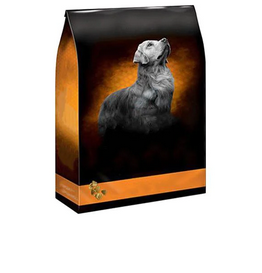
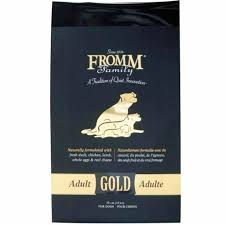
Store.js changed

diff --git a/frontend/src/components/Store.js b/frontend/src/components/Store.js
@@ -14,6 +14,9 @@ import FavoriteIcon from "@mui/icons-material/Favorite";
 import ShareIcon from "@mui/icons-material/Share";
 import MoreVertIcon from "@mui/icons-material/MoreVert";
 import dogfood from "@/images/dogfood.png";
+import dogfood1 from "@/images/dogfood1.jpg";
+import dogfood2 from "@/images/dogfood2.jpg";
+import dogfood3 from "@/images/dogfood3.jpg";
 import Image from "next/image";
 import { Box, Button } from "@mui/material";
 
@@ -23,10 +26,10 @@ export default function Store() {
   return (
     <>
       <Box sx={{ display: "flex", flexWrap: "wrap", justifyContent: "center" }}>
-        {cards.map((card) => (
-          <Card key={card}
+        
+          <Card
            sx={{ maxWidth: 300, margin: "25px", border: "1px solid #eee", "border-radius": "12px",  
-  "box-shadow": "rgba(55, 84, 170, 0.50) 0 5px 20px",}}
+              "box-shadow": "rgba(55, 84, 170, 0.50) 0 5px 20px",}}
            >
             <CardHeader
               sx={{ "borderBottom":"1px solid blue" , "margin-bottom":"5px"}}
@@ -40,35 +43,126 @@ export default function Store() {
                   <MoreVertIcon />
                 </IconButton>
               }
-              title="Dog food"
-              subheader="September 14, 2016"
+              title="FROMM Gold"
+              
             />
             <div style={{display:"flex", justifyContent:"center", marginTop:"10px", }}>
               <Image src={dogfood} alt="dogfood" width={200} height={200}/>
             </div>
             <CardContent>
               <Typography variant="body2" color="text.secondary">
-                Lorem ipsum, dolor sit amet consectetur adipisicing elit.
-                Eveniet nulla esse temporibus ullam dolore saepe culpa eius
-                aspernatur non, inventore, quasi accusamus alias quis
-                dignissimos, soluta minima! Pariatur, vero voluptatem?
+                FROMM Gold Adult Dog Food is made using a range of tasty proteins including chicken, duck and lamb. Added probiotics and fish oil will also help your dog digest their meal while gaining a glossy coat. This kibble is formulated for dogs.
               </Typography>
             </CardContent>
             <CardActions disableSpacing sx={{display:"flex", flexDirection:"row", justifyContent:"space-around"}}>
-              {/* <div style={{display:"flex", justifyContent:"flex-start"}}>
-              <IconButton aria-label="add to favorites">
-                <FavoriteIcon />
-              </IconButton>
-              <IconButton aria-label="share">
-                <ShareIcon />
-              </IconButton>
-              </div> */}
+              
               <div style={{display:"flex", justifyContent:"flex-end"}}>
               <Button  variant="outlined">Order</Button>
             </div>
             </CardActions>
           </Card>
-        ))}
+        
+          <Card
+           sx={{ maxWidth: 300, margin: "25px", border: "1px solid #eee", "border-radius": "12px",  
+              "box-shadow": "rgba(55, 84, 170, 0.50) 0 5px 20px",}}
+           >
+            <CardHeader
+              sx={{ "borderBottom":"1px solid blue" , "margin-bottom":"5px"}}
+              avatar={
+                <Avatar sx={{ bgcolor: red[500],}} aria-label="recipe">
+                  A
+                </Avatar>
+              }
+              action={
+                <IconButton aria-label="settings">
+                  <MoreVertIcon />
+                </IconButton>
+              }
+              title="Cesar"
+            />
+            <div style={{display:"flex", justifyContent:"center", marginTop:"10px", }}>
+              <Image src={dogfood1} alt="dogfood" width={200} height={200}/>
+            </div>
+            <CardContent>
+              <Typography variant="body2" color="text.secondary">
+                Give your dog a seat at the dinner table with CESAR Filet Mignon Flavor and Spring Vegetables Garnish Dry Dog Food. Dog food features tender pieces that will make your dog dance around their bowl come dinnertime.
+              </Typography>
+            </CardContent>
+            <CardActions disableSpacing sx={{display:"flex", flexDirection:"row", justifyContent:"space-around"}}>
+          
+              <div style={{display:"flex", justifyContent:"flex-end"}}>
+              <Button  variant="outlined">Order</Button>
+            </div>
+            </CardActions>
+          </Card>
+
+          <Card
+           sx={{ maxWidth: 300, margin: "25px", border: "1px solid #eee", "border-radius": "12px",  
+              "box-shadow": "rgba(55, 84, 170, 0.50) 0 5px 20px",}}
+           >
+            <CardHeader
+              sx={{ "borderBottom":"1px solid blue" , "margin-bottom":"5px"}}
+              avatar={
+                <Avatar sx={{ bgcolor: red[500],}} aria-label="recipe">
+                  D
+                </Avatar>
+              }
+              action={
+                <IconButton aria-label="settings">
+                  <MoreVertIcon />
+                </IconButton>
+              }
+              title="BRACCOID "
+            />
+            <div style={{display:"flex", justifyContent:"center", marginTop:"10px", }}>
+              <Image src={dogfood2} alt="dogfood" width={200} height={200}/>
+            </div>
+            <CardContent>
+              <Typography variant="body2" color="text.secondary">
+                Commercial dog foods shaped like pork chops, burgers, or other meaty foods are called semi-moist foods. These kinds of foods are the least nutritional of all dog foods and contain many artificial flavors and colorings.
+              </Typography>
+            </CardContent>
+            <CardActions disableSpacing sx={{display:"flex", flexDirection:"row", justifyContent:"space-around"}}>
+          
+              <div style={{display:"flex", justifyContent:"flex-end"}}>
+              <Button  variant="outlined">Order</Button>
+            </div>
+            </CardActions>
+          </Card>
+
+          <Card
+           sx={{ maxWidth: 300, margin: "25px", border: "1px solid #eee", "border-radius": "12px",  
+              "box-shadow": "rgba(55, 84, 170, 0.50) 0 5px 20px",}}
+           >
+            <CardHeader
+              sx={{ "borderBottom":"1px solid blue" , "margin-bottom":"5px"}}
+              avatar={
+                <Avatar sx={{ bgcolor: red[500],}} aria-label="recipe">
+                  S
+                </Avatar>
+              }
+              action={
+                <IconButton aria-label="settings">
+                  <MoreVertIcon />
+                </IconButton>
+              }
+              title="RAW Diet"
+            />
+            <div style={{display:"flex", justifyContent:"center", marginTop:"10px", }}>
+              <Image src={dogfood3} alt="dogfood" width={200} height={200}/>
+            </div>
+            <CardContent>
+              <Typography variant="body2" color="text.secondary">
+                A raw diet consists of raw meat, preferably with some bones (never cooked bones, only raw) and organs mixed in, as bones are a natural source of phosphorus and calcium. This type of diet works well for many dogs, since dogs have short intestinal tracts and strong stomach acids
+              </Typography>
+            </CardContent>
+            <CardActions disableSpacing sx={{display:"flex", flexDirection:"row", justifyContent:"space-around"}}>
+          
+              <div style={{display:"flex", justifyContent:"flex-end"}}>
+              <Button  variant="outlined">Order</Button>
+            </div>
+            </CardActions>
+          </Card>
       </Box>
     </>
   );
